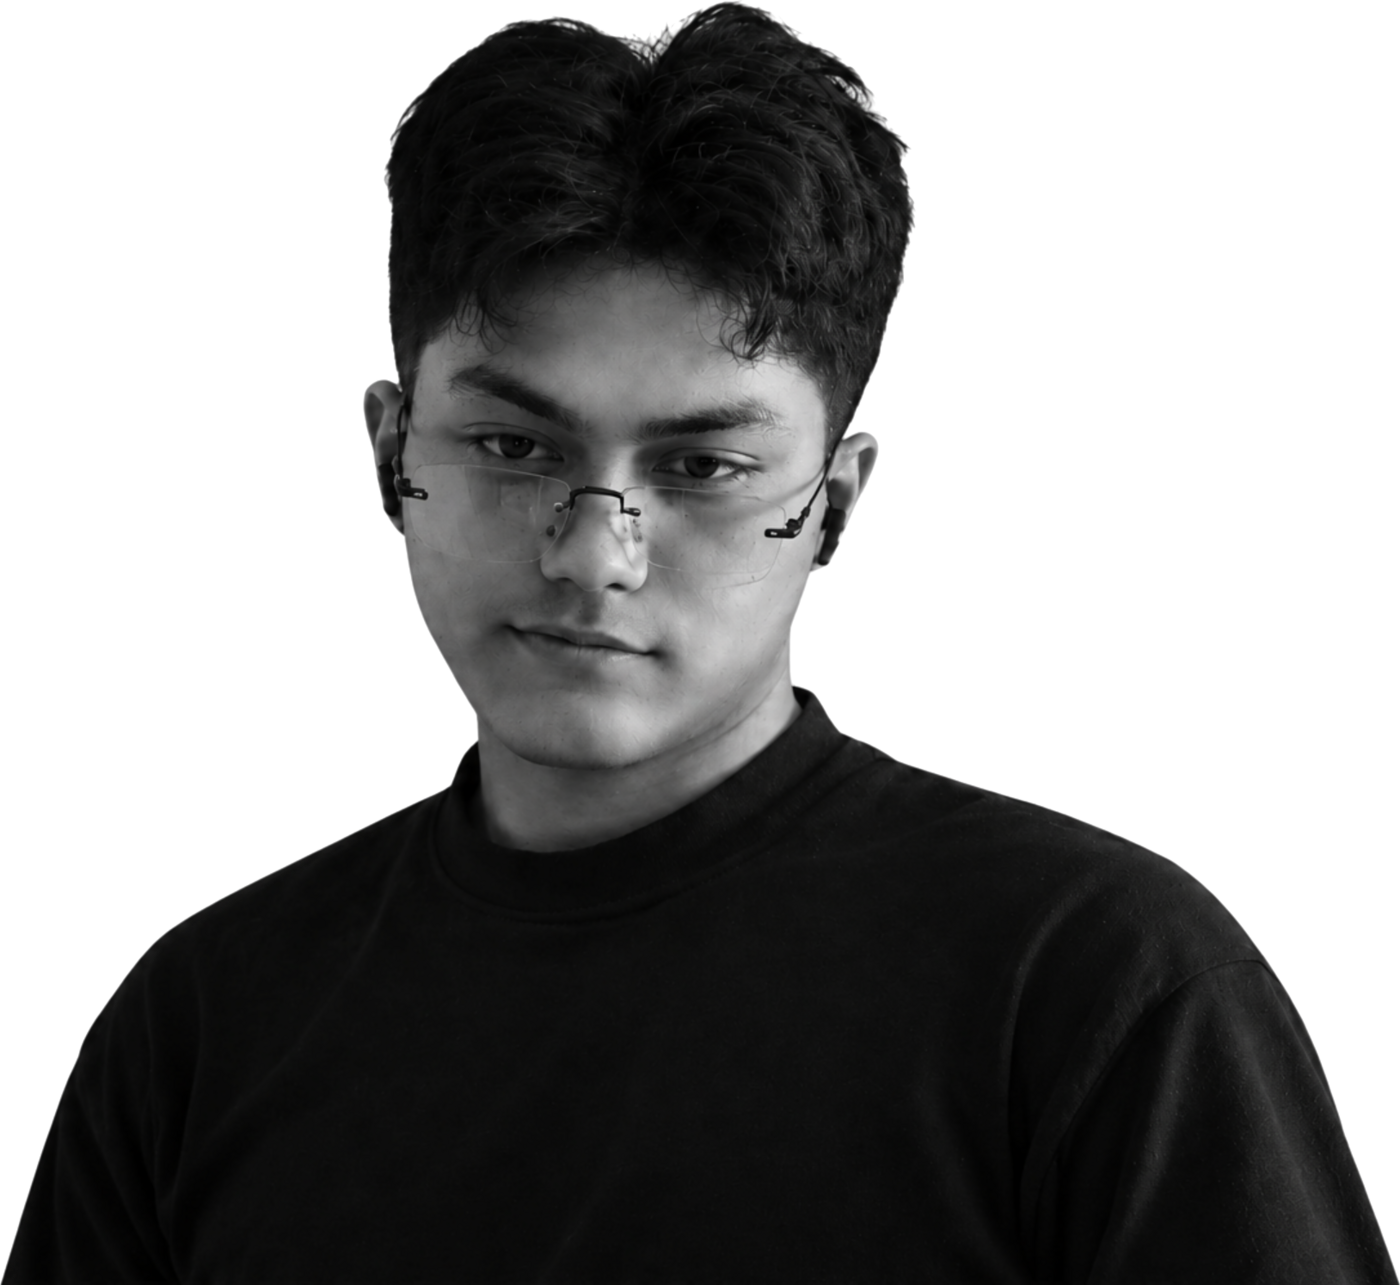
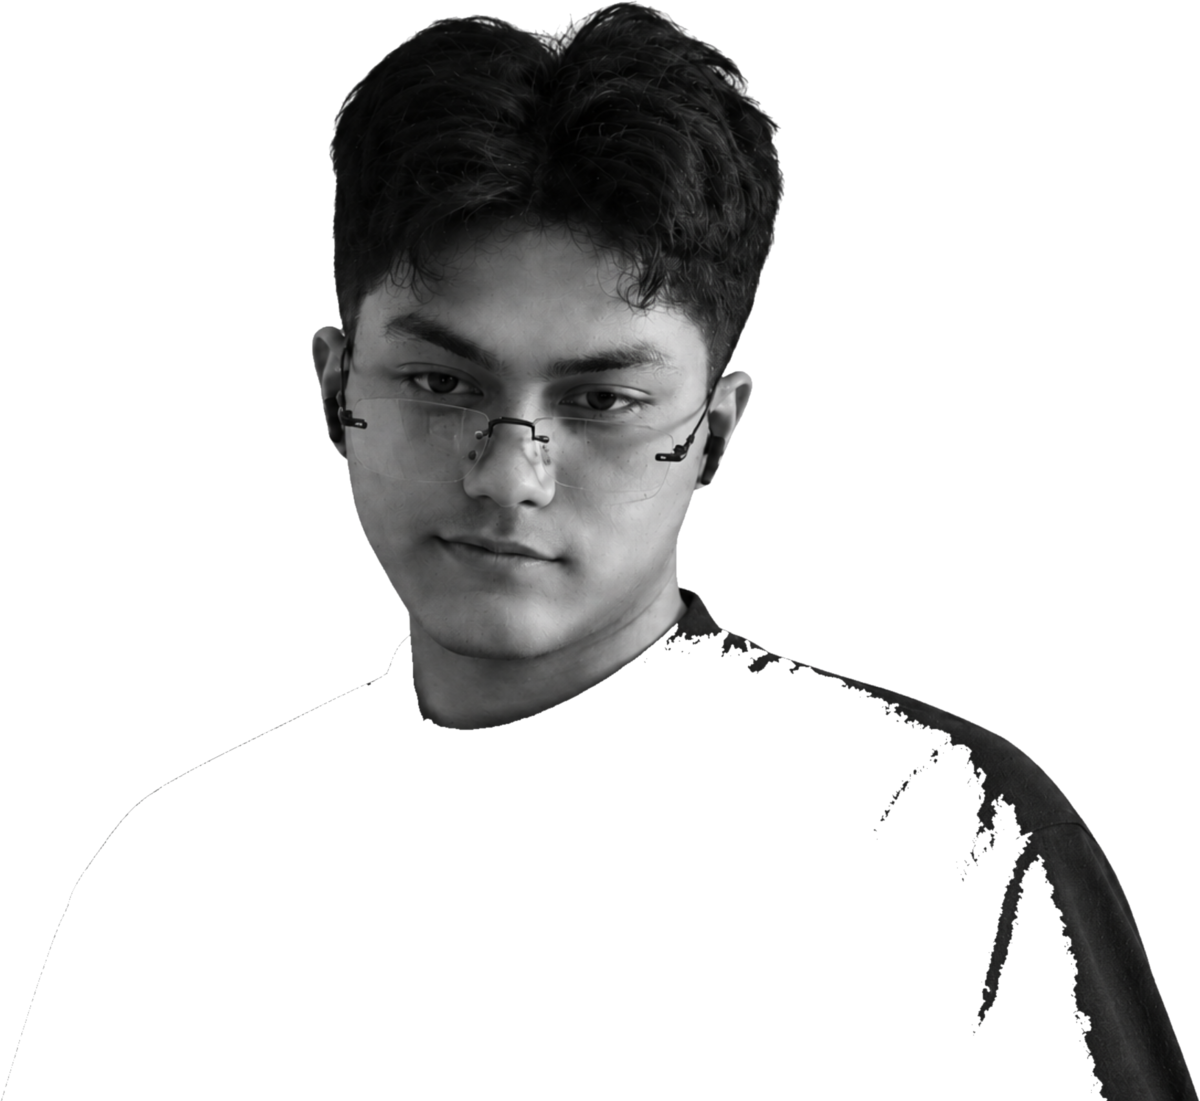
Restore hero state from 310d302

diff --git a/assets/css/style.css b/assets/css/style.css
@@ -393,7 +393,7 @@ header {
   min-height: calc(100vh - var(--header-h));
   grid-template-columns: minmax(0, 1fr) minmax(300px, 0.9fr);
   align-items: center;
-  gap: clamp(24px, 4vw, 64px);
+  gap: clamp(32px, 5vw, 80px);
   padding: 80px var(--gutter) 110px;
   text-align: left;
 }
@@ -406,7 +406,7 @@ header {
 
 .opening .display {
   margin: 26px 0 30px;
-  font-size: clamp(3rem, 5.6vw, 6.25rem);
+  font-size: clamp(3.2rem, 6vw, 7rem);
 }
 
 .opening .lede {
@@ -423,7 +423,7 @@ header {
   width: 100%;
   max-width: 620px;
   height: auto;
-  filter: drop-shadow(0 32px 60px rgba(23, 23, 23, 0.6));
+  filter: drop-shadow(0 28px 55px rgba(0, 0, 0, 0.55));
   object-fit: contain;
 }
 
